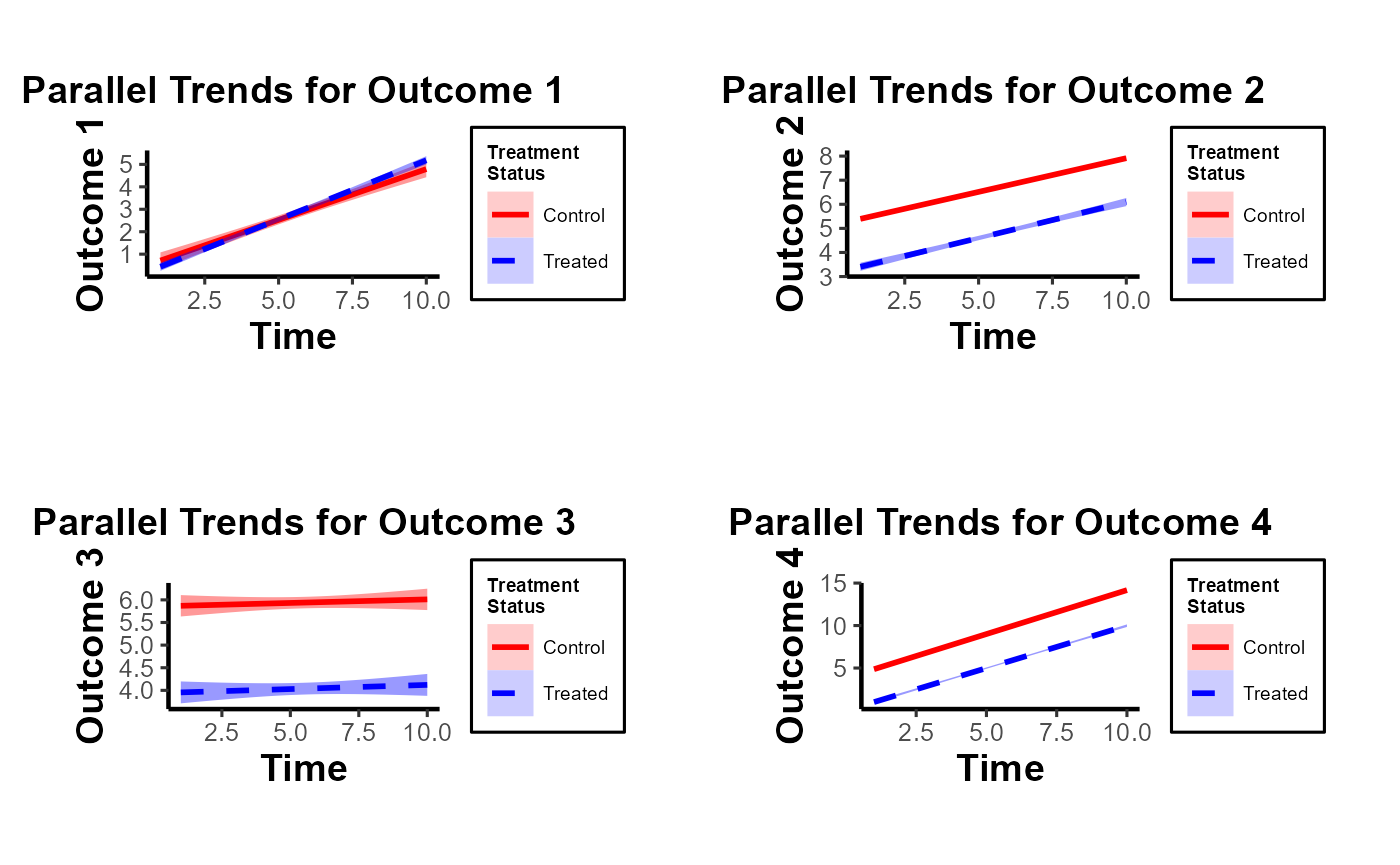
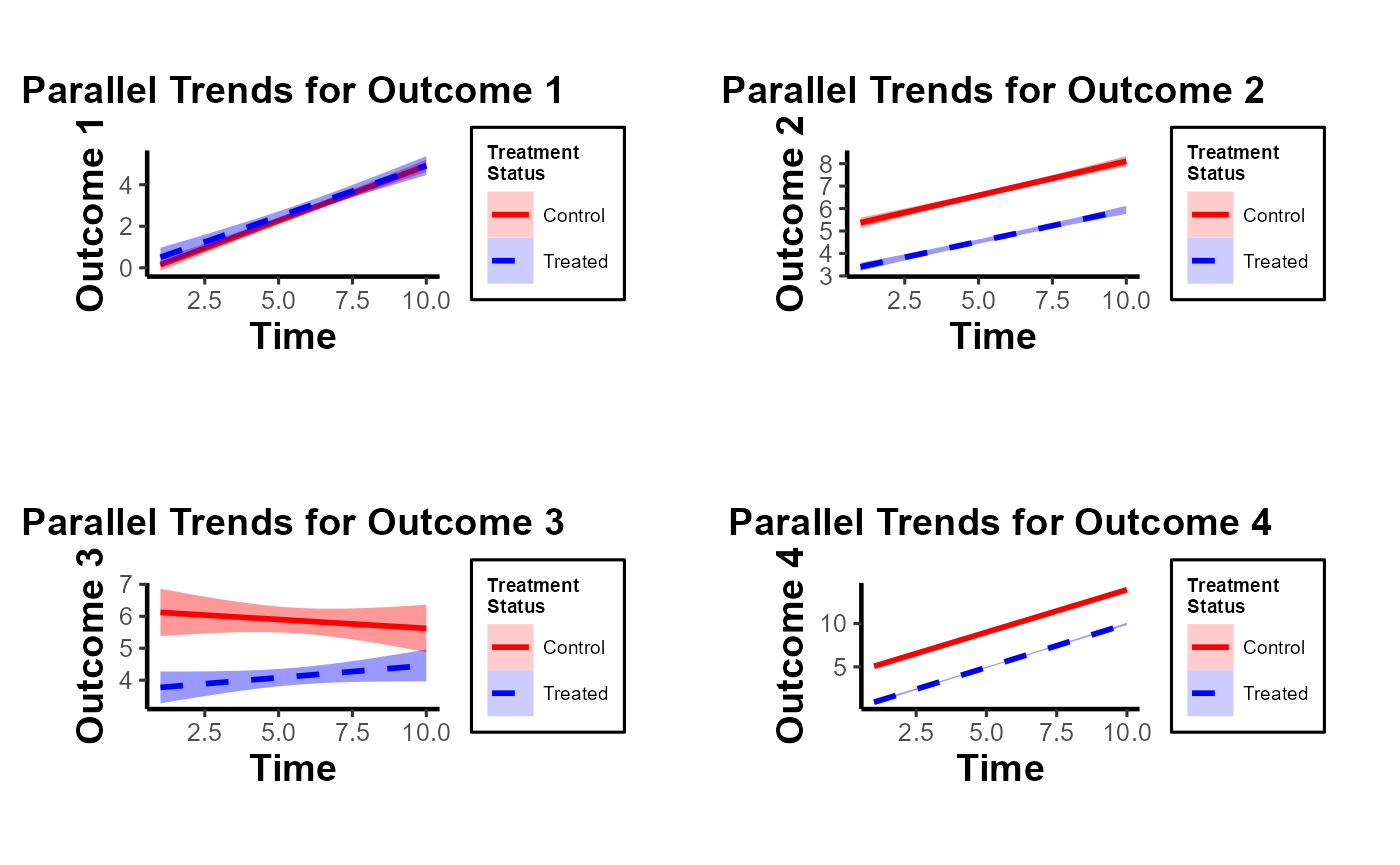
update did vignette

diff --git a/docs/articles/did.html b/docs/articles/did.html
@@ -82,7 +82,7 @@
                         <h4 data-toc-skip class="author">Mike
 Nguyen</h4>
             
-            <h4 data-toc-skip class="date">2023-09-10</h4>
+            <h4 data-toc-skip class="date">2023-09-13</h4>
       
       
       <div class="hidden name"><code>did.Rmd</code></div>
@@ -171,29 +171,29 @@ data:</p>
 <span>  <span class="op">)</span></span>
 <span></span>
 <span><span class="fu"><a href="https://rdrr.io/r/utils/head.html" class="external-link">head</a></span><span class="op">(</span><span class="va">data</span><span class="op">)</span></span>
-<span><span class="co">#&gt;   entity time treatment   outcome1 outcome2 outcome3  outcome4</span></span>
-<span><span class="co">#&gt; 1      1    1   Treated -0.9212452 4.198250 2.598204 0.9750142</span></span>
-<span><span class="co">#&gt; 2      1    2   Treated -1.4691428 2.588677 3.720860 2.2217673</span></span>
-<span><span class="co">#&gt; 3      1    3   Treated -1.6439637 2.412906 3.348479 3.4267399</span></span>
-<span><span class="co">#&gt; 4      1    4   Treated  1.8617544 3.643226 5.664870 2.9824241</span></span>
-<span><span class="co">#&gt; 5      1    5   Treated  2.0055756 4.159484 5.718735 4.6128480</span></span>
-<span><span class="co">#&gt; 6      1    6   Treated  6.3108936 4.874411 2.076136 6.2898369</span></span>
+<span><span class="co">#&gt;   entity time treatment  outcome1 outcome2  outcome3  outcome4</span></span>
+<span><span class="co">#&gt; 1      1    1   Treated 3.9412508 2.496175  2.668553 1.5395708</span></span>
+<span><span class="co">#&gt; 2      1    2   Treated 0.3853295 2.642756  4.197048 0.8052053</span></span>
+<span><span class="co">#&gt; 3      1    3   Treated 2.9096285 5.473351  2.212058 3.7491183</span></span>
+<span><span class="co">#&gt; 4      1    4   Treated 0.8058305 2.841231  5.342310 5.2838790</span></span>
+<span><span class="co">#&gt; 5      1    5   Treated 3.3682230 6.271924  3.419308 5.1122390</span></span>
+<span><span class="co">#&gt; 6      1    6   Treated 3.9741977 4.592943 12.021567 5.4151800</span></span>
 <span></span>
 <span><span class="fu"><a href="https://rdrr.io/r/base/summary.html" class="external-link">summary</a></span><span class="op">(</span><span class="va">data</span><span class="op">)</span></span>
-<span><span class="co">#&gt;      entity            time       treatment            outcome1     </span></span>
-<span><span class="co">#&gt;  Min.   :  1.00   Min.   : 1.0   Length:1000        Min.   :-5.242  </span></span>
-<span><span class="co">#&gt;  1st Qu.: 25.75   1st Qu.: 3.0   Class :character   1st Qu.: 1.030  </span></span>
-<span><span class="co">#&gt;  Median : 50.50   Median : 5.5   Mode  :character   Median : 2.825  </span></span>
-<span><span class="co">#&gt;  Mean   : 50.50   Mean   : 5.5                      Mean   : 2.782  </span></span>
-<span><span class="co">#&gt;  3rd Qu.: 75.25   3rd Qu.: 8.0                      3rd Qu.: 4.655  </span></span>
-<span><span class="co">#&gt;  Max.   :100.00   Max.   :10.0                      Max.   :10.901  </span></span>
-<span><span class="co">#&gt;     outcome2        outcome3          outcome4      </span></span>
-<span><span class="co">#&gt;  Min.   :0.887   Min.   :-10.377   Min.   :-0.6217  </span></span>
-<span><span class="co">#&gt;  1st Qu.:4.599   1st Qu.:  3.014   1st Qu.: 4.8177  </span></span>
-<span><span class="co">#&gt;  Median :5.698   Median :  5.001   Median : 7.5672  </span></span>
-<span><span class="co">#&gt;  Mean   :5.701   Mean   :  4.989   Mean   : 7.5038  </span></span>
-<span><span class="co">#&gt;  3rd Qu.:6.790   3rd Qu.:  6.911   3rd Qu.:10.2151  </span></span>
-<span><span class="co">#&gt;  Max.   :9.958   Max.   : 17.962   Max.   :16.1307</span></span></code></pre></div>
+<span><span class="co">#&gt;      entity            time       treatment            outcome1      </span></span>
+<span><span class="co">#&gt;  Min.   :  1.00   Min.   : 1.0   Length:1000        Min.   :-5.2482  </span></span>
+<span><span class="co">#&gt;  1st Qu.: 25.75   1st Qu.: 3.0   Class :character   1st Qu.: 0.9742  </span></span>
+<span><span class="co">#&gt;  Median : 50.50   Median : 5.5   Mode  :character   Median : 2.5997  </span></span>
+<span><span class="co">#&gt;  Mean   : 50.50   Mean   : 5.5                      Mean   : 2.6221  </span></span>
+<span><span class="co">#&gt;  3rd Qu.: 75.25   3rd Qu.: 8.0                      3rd Qu.: 4.2621  </span></span>
+<span><span class="co">#&gt;  Max.   :100.00   Max.   :10.0                      Max.   :10.4304  </span></span>
+<span><span class="co">#&gt;     outcome2         outcome3         outcome4     </span></span>
+<span><span class="co">#&gt;  Min.   :0.3563   Min.   :-9.905   Min.   :-1.289  </span></span>
+<span><span class="co">#&gt;  1st Qu.:4.4895   1st Qu.: 3.139   1st Qu.: 4.836  </span></span>
+<span><span class="co">#&gt;  Median :5.7107   Median : 5.011   Median : 7.598  </span></span>
+<span><span class="co">#&gt;  Mean   :5.7056   Mean   : 4.995   Mean   : 7.459  </span></span>
+<span><span class="co">#&gt;  3rd Qu.:6.9764   3rd Qu.: 6.921   3rd Qu.:10.061  </span></span>
+<span><span class="co">#&gt;  Max.   :9.9892   Max.   :15.613   Max.   :16.762</span></span></code></pre></div>
 <p>Visualizing Trends with <code>plot_par_trends</code> Invoke the
 <code>plot_par_trends</code> function using the sample data:</p>
 <div class="sourceCode" id="cb4"><pre class="downlit sourceCode r">
@@ -896,9 +896,10 @@ proceed:</p>
 <span></span>
 <span><span class="va">methods</span> <span class="op">&lt;-</span> <span class="fu"><a href="https://rdrr.io/r/base/c.html" class="external-link">c</a></span><span class="op">(</span><span class="st">"mahalanobis"</span>, <span class="st">"ps.match"</span>, <span class="st">"ps.weight"</span><span class="op">)</span></span>
 <span><span class="va">lags</span> <span class="op">&lt;-</span> <span class="fu"><a href="https://rdrr.io/r/base/c.html" class="external-link">c</a></span><span class="op">(</span><span class="fl">1</span>, <span class="fl">4</span><span class="op">)</span></span>
-<span><span class="va">sizes</span> <span class="op">&lt;-</span> <span class="fu"><a href="https://rdrr.io/r/base/c.html" class="external-link">c</a></span><span class="op">(</span><span class="fl">5</span>, <span class="fl">10</span><span class="op">)</span></span>
-<span></span>
-<span><span class="va">res_pm</span> <span class="op">&lt;-</span> <span class="fu"><a href="https://rdrr.io/r/base/list.html" class="external-link">list</a></span><span class="op">(</span><span class="op">)</span></span>
+<span><span class="va">sizes</span> <span class="op">&lt;-</span> <span class="fu"><a href="https://rdrr.io/r/base/c.html" class="external-link">c</a></span><span class="op">(</span><span class="fl">5</span>, <span class="fl">10</span><span class="op">)</span></span></code></pre></div>
+<p>Run sequentially</p>
+<div class="sourceCode" id="cb19"><pre class="downlit sourceCode r">
+<code class="sourceCode R"><span><span class="va">res_pm</span> <span class="op">&lt;-</span> <span class="fu"><a href="https://rdrr.io/r/base/list.html" class="external-link">list</a></span><span class="op">(</span><span class="op">)</span></span>
 <span></span>
 <span><span class="kw">for</span><span class="op">(</span><span class="va">method</span> <span class="kw">in</span> <span class="va">methods</span><span class="op">)</span> <span class="op">{</span></span>
 <span>    <span class="kw">for</span><span class="op">(</span><span class="va">lag</span> <span class="kw">in</span> <span class="va">lags</span><span class="op">)</span> <span class="op">{</span></span>
@@ -920,13 +921,81 @@ proceed:</p>
 <span>        <span class="op">}</span></span>
 <span>    <span class="op">}</span></span>
 <span><span class="op">}</span></span></code></pre></div>
-<div class="sourceCode" id="cb19"><pre class="downlit sourceCode r">
+<p>Run parallel</p>
+<div class="sourceCode" id="cb20"><pre class="downlit sourceCode r">
+<code class="sourceCode R"><span><span class="kw"><a href="https://rdrr.io/r/base/library.html" class="external-link">library</a></span><span class="op">(</span><span class="va"><a href="https://github.com/RevolutionAnalytics/foreach" class="external-link">foreach</a></span><span class="op">)</span></span>
+<span><span class="co">#&gt; </span></span>
+<span><span class="co">#&gt; Attaching package: 'foreach'</span></span>
+<span><span class="co">#&gt; The following objects are masked from 'package:purrr':</span></span>
+<span><span class="co">#&gt; </span></span>
+<span><span class="co">#&gt;     accumulate, when</span></span>
+<span><span class="kw"><a href="https://rdrr.io/r/base/library.html" class="external-link">library</a></span><span class="op">(</span><span class="va"><a href="https://github.com/RevolutionAnalytics/doparallel" class="external-link">doParallel</a></span><span class="op">)</span></span>
+<span><span class="co">#&gt; Loading required package: iterators</span></span>
+<span><span class="co">#&gt; Loading required package: parallel</span></span>
+<span><span class="fu"><a href="https://rdrr.io/pkg/doParallel/man/registerDoParallel.html" class="external-link">registerDoParallel</a></span><span class="op">(</span>cores <span class="op">=</span> <span class="fl">4</span><span class="op">)</span></span>
+<span><span class="co"># Initialize an empty list to store results</span></span>
+<span><span class="va">res_pm</span> <span class="op">&lt;-</span> <span class="fu"><a href="https://rdrr.io/r/base/list.html" class="external-link">list</a></span><span class="op">(</span><span class="op">)</span></span>
+<span></span>
+<span><span class="co"># Replace nested for-loops with foreach</span></span>
+<span><span class="va">results</span> <span class="op">&lt;-</span></span>
+<span>  <span class="fu"><a href="https://rdrr.io/pkg/foreach/man/foreach.html" class="external-link">foreach</a></span><span class="op">(</span></span>
+<span>    method <span class="op">=</span> <span class="va">methods</span>,</span>
+<span>    .combine <span class="op">=</span> <span class="st">'c'</span>,</span>
+<span>    .multicombine <span class="op">=</span> <span class="cn">TRUE</span>,</span>
+<span>    .packages <span class="op">=</span> <span class="fu"><a href="https://rdrr.io/r/base/c.html" class="external-link">c</a></span><span class="op">(</span><span class="st">"PanelMatch"</span>, <span class="st">"causalverse"</span><span class="op">)</span></span>
+<span>  <span class="op">)</span> <span class="op"><a href="https://rdrr.io/pkg/foreach/man/foreach.html" class="external-link">%dopar%</a></span> <span class="op">{</span></span>
+<span>    <span class="va">tmp</span> <span class="op">&lt;-</span> <span class="fu"><a href="https://rdrr.io/r/base/list.html" class="external-link">list</a></span><span class="op">(</span><span class="op">)</span></span>
+<span>    <span class="kw">for</span> <span class="op">(</span><span class="va">lag</span> <span class="kw">in</span> <span class="va">lags</span><span class="op">)</span> <span class="op">{</span></span>
+<span>      <span class="kw">for</span> <span class="op">(</span><span class="va">size</span> <span class="kw">in</span> <span class="va">sizes</span><span class="op">)</span> <span class="op">{</span></span>
+<span>        <span class="va">name</span> <span class="op">&lt;-</span> <span class="fu"><a href="https://rdrr.io/r/base/paste.html" class="external-link">paste0</a></span><span class="op">(</span><span class="va">method</span>, <span class="st">"."</span>, <span class="va">lag</span>, <span class="st">"lag."</span>, <span class="va">size</span>, <span class="st">"m"</span><span class="op">)</span></span>
+<span>        <span class="va">tmp</span><span class="op">[[</span><span class="va">name</span><span class="op">]</span><span class="op">]</span> <span class="op">&lt;-</span> <span class="fu">runPanelMatch</span><span class="op">(</span><span class="va">method</span>, <span class="va">lag</span>, <span class="va">size</span><span class="op">)</span></span>
+<span>      <span class="op">}</span></span>
+<span>    <span class="op">}</span></span>
+<span>    <span class="va">tmp</span></span>
+<span>  <span class="op">}</span></span>
+<span></span>
+<span><span class="co"># Collate results</span></span>
+<span><span class="kw">for</span> <span class="op">(</span><span class="va">name</span> <span class="kw">in</span> <span class="fu"><a href="https://rdrr.io/r/base/names.html" class="external-link">names</a></span><span class="op">(</span><span class="va">results</span><span class="op">)</span><span class="op">)</span> <span class="op">{</span></span>
+<span>  <span class="va">res_pm</span><span class="op">[[</span><span class="va">name</span><span class="op">]</span><span class="op">]</span> <span class="op">&lt;-</span> <span class="va">results</span><span class="op">[[</span><span class="va">name</span><span class="op">]</span><span class="op">]</span></span>
+<span><span class="op">}</span></span>
+<span></span>
+<span><span class="co"># Treatment reversal</span></span>
+<span><span class="co"># Initialize an empty list to store results</span></span>
+<span><span class="va">res_pm_rev</span> <span class="op">&lt;-</span> <span class="fu"><a href="https://rdrr.io/r/base/list.html" class="external-link">list</a></span><span class="op">(</span><span class="op">)</span></span>
+<span></span>
+<span><span class="co"># Replace nested for-loops with foreach</span></span>
+<span><span class="va">results_rev</span> <span class="op">&lt;-</span></span>
+<span>  <span class="fu"><a href="https://rdrr.io/pkg/foreach/man/foreach.html" class="external-link">foreach</a></span><span class="op">(</span></span>
+<span>    method <span class="op">=</span> <span class="va">methods</span>,</span>
+<span>    .combine <span class="op">=</span> <span class="st">'c'</span>,</span>
+<span>    .multicombine <span class="op">=</span> <span class="cn">TRUE</span>,</span>
+<span>    .packages <span class="op">=</span> <span class="fu"><a href="https://rdrr.io/r/base/c.html" class="external-link">c</a></span><span class="op">(</span><span class="st">"PanelMatch"</span>, <span class="st">"causalverse"</span><span class="op">)</span></span>
+<span>  <span class="op">)</span> <span class="op"><a href="https://rdrr.io/pkg/foreach/man/foreach.html" class="external-link">%dopar%</a></span> <span class="op">{</span></span>
+<span>    <span class="va">tmp</span> <span class="op">&lt;-</span> <span class="fu"><a href="https://rdrr.io/r/base/list.html" class="external-link">list</a></span><span class="op">(</span><span class="op">)</span></span>
+<span>    <span class="kw">for</span> <span class="op">(</span><span class="va">lag</span> <span class="kw">in</span> <span class="va">lags</span><span class="op">)</span> <span class="op">{</span></span>
+<span>      <span class="kw">for</span> <span class="op">(</span><span class="va">size</span> <span class="kw">in</span> <span class="va">sizes</span><span class="op">)</span> <span class="op">{</span></span>
+<span>        <span class="va">name</span> <span class="op">&lt;-</span> <span class="fu"><a href="https://rdrr.io/r/base/paste.html" class="external-link">paste0</a></span><span class="op">(</span><span class="va">method</span>, <span class="st">"."</span>, <span class="va">lag</span>, <span class="st">"lag."</span>, <span class="va">size</span>, <span class="st">"m"</span><span class="op">)</span></span>
+<span>        <span class="va">tmp</span><span class="op">[[</span><span class="va">name</span><span class="op">]</span><span class="op">]</span> <span class="op">&lt;-</span></span>
+<span>          <span class="fu">runPanelMatch</span><span class="op">(</span><span class="va">method</span>, <span class="va">lag</span>, <span class="va">size</span>, qoi <span class="op">=</span> <span class="st">"art"</span><span class="op">)</span></span>
+<span>      <span class="op">}</span></span>
+<span>    <span class="op">}</span></span>
+<span>    <span class="va">tmp</span></span>
+<span>  <span class="op">}</span></span>
+<span></span>
+<span><span class="co"># Collate results</span></span>
+<span><span class="kw">for</span> <span class="op">(</span><span class="va">name</span> <span class="kw">in</span> <span class="fu"><a href="https://rdrr.io/r/base/names.html" class="external-link">names</a></span><span class="op">(</span><span class="va">results_rev</span><span class="op">)</span><span class="op">)</span> <span class="op">{</span></span>
+<span>  <span class="va">res_pm_rev</span><span class="op">[[</span><span class="va">name</span><span class="op">]</span><span class="op">]</span> <span class="op">&lt;-</span> <span class="va">results_rev</span><span class="op">[[</span><span class="va">name</span><span class="op">]</span><span class="op">]</span></span>
+<span><span class="op">}</span></span>
+<span></span>
+<span></span>
+<span><span class="fu"><a href="https://rdrr.io/pkg/doParallel/man/registerDoParallel.html" class="external-link">stopImplicitCluster</a></span><span class="op">(</span><span class="op">)</span></span></code></pre></div>
+<div class="sourceCode" id="cb21"><pre class="downlit sourceCode r">
 <code class="sourceCode R"><span><span class="co"># Now, you can access res_pm using res_pm[["mahalanobis.1lag.5m"]] etc.</span></span>
 <span></span>
 <span><span class="kw"><a href="https://rdrr.io/r/base/library.html" class="external-link">library</a></span><span class="op">(</span><span class="va">gridExtra</span><span class="op">)</span></span>
 <span></span>
 <span><span class="co"># Updated plotting function</span></span>
-<span><span class="va">create_balance_plot</span> <span class="op">&lt;-</span> <span class="kw">function</span><span class="op">(</span><span class="va">method</span>, <span class="va">lag</span>, <span class="va">sizes</span>, <span class="va">res_pm</span>, <span class="va">dem</span><span class="op">)</span> <span class="op">{</span></span>
+<span><span class="va">create_balance_plot</span> <span class="op">&lt;-</span> <span class="kw">function</span><span class="op">(</span><span class="va">method</span>, <span class="va">lag</span>, <span class="va">sizes</span>, <span class="va">res_pm</span>, <span class="va">data</span><span class="op">)</span> <span class="op">{</span></span>
 <span>    <span class="va">matched_set_lists</span> <span class="op">&lt;-</span> <span class="fu"><a href="https://rdrr.io/r/base/lapply.html" class="external-link">lapply</a></span><span class="op">(</span><span class="va">sizes</span>, <span class="kw">function</span><span class="op">(</span><span class="va">size</span><span class="op">)</span> <span class="op">{</span></span>
 <span>        <span class="va">res_pm</span><span class="op">[[</span><span class="fu"><a href="https://rdrr.io/r/base/paste.html" class="external-link">paste0</a></span><span class="op">(</span><span class="va">method</span>, <span class="st">"."</span>, <span class="va">lag</span>, <span class="st">"lag."</span>, <span class="va">size</span>, <span class="st">"m"</span><span class="op">)</span><span class="op">]</span><span class="op">]</span><span class="op">$</span><span class="va">att</span></span>
 <span>    <span class="op">}</span><span class="op">)</span></span>
@@ -941,7 +1010,7 @@ proceed:</p>
 <span>        x.axis.label <span class="op">=</span> <span class="st">""</span>,</span>
 <span>        y.axis.label <span class="op">=</span> <span class="st">""</span>,</span>
 <span>        main <span class="op">=</span> <span class="st">""</span>,</span>
-<span>        data <span class="op">=</span> <span class="va">dem</span>,</span>
+<span>        data <span class="op">=</span> <span class="va">data</span>,</span>
 <span>        dot.size <span class="op">=</span> <span class="fl">5</span>,</span>
 <span>        <span class="co"># show.legend = F,</span></span>
 <span>        them_use <span class="op">=</span> <span class="fu">causalverse</span><span class="fu">::</span><span class="fu"><a href="../reference/ama_theme.html">ama_theme</a></span><span class="op">(</span></span>
@@ -984,7 +1053,7 @@ proceed:</p>
 <span><span class="va">major.axes.fontsize</span> <span class="op">=</span> <span class="fl">20</span></span>
 <span><span class="va">minor.axes.fontsize</span> <span class="op">=</span> <span class="fl">16</span></span></code></pre></div>
 <p>To export</p>
-<div class="sourceCode" id="cb20"><pre class="downlit sourceCode r">
+<div class="sourceCode" id="cb22"><pre class="downlit sourceCode r">
 <code class="sourceCode R"><span><span class="fu"><a href="https://rdrr.io/r/grDevices/png.html" class="external-link">png</a></span><span class="op">(</span></span>
 <span>  <span class="fu"><a href="https://rdrr.io/r/base/file.path.html" class="external-link">file.path</a></span><span class="op">(</span><span class="fu"><a href="https://rdrr.io/r/base/getwd.html" class="external-link">getwd</a></span><span class="op">(</span><span class="op">)</span>, <span class="st">"export"</span>, <span class="st">"balance_scatter.png"</span><span class="op">)</span>,</span>
 <span>  width <span class="op">=</span> <span class="fl">1200</span>,</span>
@@ -1042,7 +1111,7 @@ proceed:</p>
 <span>  gp <span class="op">=</span> <span class="fu"><a href="https://rdrr.io/r/grid/gpar.html" class="external-link">gpar</a></span><span class="op">(</span>fontsize <span class="op">=</span> <span class="va">major.axes.fontsize</span><span class="op">)</span></span>
 <span><span class="op">)</span></span>
 <span><span class="fu"><a href="https://rdrr.io/r/grDevices/dev.html" class="external-link">dev.off</a></span><span class="op">(</span><span class="op">)</span></span></code></pre></div>
-<div class="sourceCode" id="cb21"><pre class="downlit sourceCode r">
+<div class="sourceCode" id="cb23"><pre class="downlit sourceCode r">
 <code class="sourceCode R"><span><span class="kw"><a href="https://rdrr.io/r/base/library.html" class="external-link">library</a></span><span class="op">(</span><span class="va"><a href="https://yihui.org/knitr/" class="external-link">knitr</a></span><span class="op">)</span></span>
 <span><span class="fu"><a href="https://rdrr.io/pkg/knitr/man/include_graphics.html" class="external-link">include_graphics</a></span><span class="op">(</span><span class="fu"><a href="https://rdrr.io/r/base/file.path.html" class="external-link">file.path</a></span><span class="op">(</span><span class="fu"><a href="https://rdrr.io/r/base/getwd.html" class="external-link">getwd</a></span><span class="op">(</span><span class="op">)</span>, <span class="st">"export"</span>, <span class="st">"balance_scatter.png"</span><span class="op">)</span><span class="op">)</span></span></code></pre></div>
 <p>I do not include it in this vignette due to display issues, but the
@@ -1056,7 +1125,7 @@ code can be easily replicated.</p>
 object. Therefore, it is necessary to construct our own visualization.
 However, one can utilize the output dataset from
 <code>get_covariate_balance</code> for this purpose.</p>
-<div class="sourceCode" id="cb22"><pre class="downlit sourceCode r">
+<div class="sourceCode" id="cb24"><pre class="downlit sourceCode r">
 <code class="sourceCode R"><span><span class="va">PM.results.ps.weight</span> <span class="op">&lt;-</span></span>
 <span>    <span class="fu"><a href="https://rdrr.io/pkg/PanelMatch/man/PanelMatch.html" class="external-link">PanelMatch</a></span><span class="op">(</span></span>
 <span>        lag                       <span class="op">=</span> <span class="fl">4</span>,</span>
@@ -1082,11 +1151,11 @@ However, one can utilize the output dataset from
 <span><span class="op">)</span></span>
 <span></span>
 <span><span class="fu"><a href="../reference/plot_covariate_balance_pretrend.html">plot_covariate_balance_pretrend</a></span><span class="op">(</span><span class="va">df</span><span class="op">)</span></span></code></pre></div>
-<p><img src="did_files/figure-html/unnamed-chunk-20-1.png" width="700"></p>
+<p><img src="did_files/figure-html/unnamed-chunk-22-1.png" width="700"></p>
 <p>We must also examine multiple matching and refining methods to ensure
 that we have robust evidence for covariate balance over the
 pre-treatment time period.</p>
-<div class="sourceCode" id="cb23"><pre class="downlit sourceCode r">
+<div class="sourceCode" id="cb25"><pre class="downlit sourceCode r">
 <code class="sourceCode R"><span><span class="co"># Step 1: Define configurations</span></span>
 <span><span class="va">configurations</span> <span class="op">&lt;-</span> <span class="fu"><a href="https://rdrr.io/r/base/list.html" class="external-link">list</a></span><span class="op">(</span></span>
 <span>    <span class="fu"><a href="https://rdrr.io/r/base/list.html" class="external-link">list</a></span><span class="op">(</span>refinement.method <span class="op">=</span> <span class="st">"none"</span>, qoi <span class="op">=</span> <span class="st">"att"</span><span class="op">)</span>,</span>
@@ -1156,7 +1225,7 @@ pre-treatment time period.</p>
 <span><span class="co"># Equivalently</span></span>
 <span><span class="co"># grid.arrange(grobs = c(plots[paste0("att.", c("none", "mahalanobis", "ps.match", "ps.weight"))], plots[paste0("art.", c("none", "mahalanobis", "ps.match", "ps.weight"))]),  ncol = 4)</span></span></code></pre></div>
 <p>For a fancier plot</p>
-<div class="sourceCode" id="cb24"><pre class="downlit sourceCode r">
+<div class="sourceCode" id="cb26"><pre class="downlit sourceCode r">
 <code class="sourceCode R"><span><span class="kw"><a href="https://rdrr.io/r/base/library.html" class="external-link">library</a></span><span class="op">(</span><span class="va">gridExtra</span><span class="op">)</span></span>
 <span><span class="kw"><a href="https://rdrr.io/r/base/library.html" class="external-link">library</a></span><span class="op">(</span><span class="va">grid</span><span class="op">)</span></span>
 <span></span>
@@ -1237,8 +1306,9 @@ pre-treatment time period.</p>
 <div class="section level3">
 <h3 id="estimation">Estimation<a class="anchor" aria-label="anchor" href="#estimation"></a>
 </h3>
-<div class="sourceCode" id="cb25"><pre class="downlit sourceCode r">
-<code class="sourceCode R"><span><span class="co"># Step 1: Apply PanelEstimate function</span></span>
+<div class="sourceCode" id="cb27"><pre class="downlit sourceCode r">
+<code class="sourceCode R"><span><span class="co"># sequential</span></span>
+<span><span class="co"># Step 1: Apply PanelEstimate function</span></span>
 <span></span>
 <span><span class="co"># Initialize an empty list to store results</span></span>
 <span><span class="va">res_est</span> <span class="op">&lt;-</span> <span class="fu"><a href="https://rdrr.io/r/base/vector.html" class="external-link">vector</a></span><span class="op">(</span><span class="st">"list"</span>, <span class="fu"><a href="https://rdrr.io/r/base/length.html" class="external-link">length</a></span><span class="op">(</span><span class="va">res_pm</span><span class="op">)</span><span class="op">)</span></span>
@@ -1271,10 +1341,11 @@ pre-treatment time period.</p>
 <span>    <span class="fu"><a href="https://rdrr.io/r/base/names.html" class="external-link">names</a></span><span class="op">(</span><span class="va">res_est_plot</span><span class="op">)</span><span class="op">[</span><span class="va">i</span><span class="op">]</span> <span class="op">&lt;-</span> <span class="fu"><a href="https://rdrr.io/r/base/names.html" class="external-link">names</a></span><span class="op">(</span><span class="va">res_est</span><span class="op">)</span><span class="op">[</span><span class="va">i</span><span class="op">]</span></span>
 <span><span class="op">}</span></span>
 <span></span>
-<span><span class="va">res_est_plot</span><span class="op">$</span><span class="va">mahalanobis.1lag.5m</span></span></code></pre></div>
-<p><img src="did_files/figure-html/unnamed-chunk-23-1.png" width="700"></p>
-<div class="sourceCode" id="cb26"><pre class="downlit sourceCode r">
-<code class="sourceCode R"><span><span class="co"># Step 1: Apply PanelEstimate function for res_pm_rev</span></span>
+<span><span class="co"># check results</span></span>
+<span><span class="co"># res_est_plot$mahalanobis.1lag.5m</span></span>
+<span></span>
+<span></span>
+<span><span class="co"># Step 1: Apply PanelEstimate function for res_pm_rev</span></span>
 <span></span>
 <span><span class="co"># Initialize an empty list to store results</span></span>
 <span><span class="va">res_est_rev</span> <span class="op">&lt;-</span> <span class="fu"><a href="https://rdrr.io/r/base/vector.html" class="external-link">vector</a></span><span class="op">(</span><span class="st">"list"</span>, <span class="fu"><a href="https://rdrr.io/r/base/length.html" class="external-link">length</a></span><span class="op">(</span><span class="va">res_pm_rev</span><span class="op">)</span><span class="op">)</span></span>
@@ -1306,7 +1377,81 @@ pre-treatment time period.</p>
 <span>  <span class="co"># Transfer the name of the current element to the res_est_plot_rev list</span></span>
 <span>  <span class="fu"><a href="https://rdrr.io/r/base/names.html" class="external-link">names</a></span><span class="op">(</span><span class="va">res_est_plot_rev</span><span class="op">)</span><span class="op">[</span><span class="va">i</span><span class="op">]</span> <span class="op">&lt;-</span> <span class="fu"><a href="https://rdrr.io/r/base/names.html" class="external-link">names</a></span><span class="op">(</span><span class="va">res_est_rev</span><span class="op">)</span><span class="op">[</span><span class="va">i</span><span class="op">]</span></span>
 <span><span class="op">}</span></span></code></pre></div>
-<div class="sourceCode" id="cb27"><pre class="downlit sourceCode r">
+<div class="sourceCode" id="cb28"><pre class="downlit sourceCode r">
+<code class="sourceCode R"><span><span class="co"># parallel</span></span>
+<span><span class="kw"><a href="https://rdrr.io/r/base/library.html" class="external-link">library</a></span><span class="op">(</span><span class="va"><a href="https://github.com/RevolutionAnalytics/doparallel" class="external-link">doParallel</a></span><span class="op">)</span></span>
+<span><span class="kw"><a href="https://rdrr.io/r/base/library.html" class="external-link">library</a></span><span class="op">(</span><span class="va"><a href="https://github.com/RevolutionAnalytics/foreach" class="external-link">foreach</a></span><span class="op">)</span></span>
+<span></span>
+<span><span class="co"># Detect the number of cores to use for parallel processing</span></span>
+<span><span class="va">num_cores</span> <span class="op">&lt;-</span> <span class="fl">4</span></span>
+<span></span>
+<span><span class="co"># Register the parallel backend</span></span>
+<span><span class="va">cl</span> <span class="op">&lt;-</span> <span class="fu"><a href="https://rdrr.io/r/parallel/makeCluster.html" class="external-link">makeCluster</a></span><span class="op">(</span><span class="va">num_cores</span><span class="op">)</span></span>
+<span><span class="fu"><a href="https://rdrr.io/pkg/doParallel/man/registerDoParallel.html" class="external-link">registerDoParallel</a></span><span class="op">(</span><span class="va">cl</span><span class="op">)</span></span>
+<span></span>
+<span><span class="co"># Step 1: Apply PanelEstimate function in parallel</span></span>
+<span><span class="va">res_est</span> <span class="op">&lt;-</span></span>
+<span>    <span class="fu"><a href="https://rdrr.io/pkg/foreach/man/foreach.html" class="external-link">foreach</a></span><span class="op">(</span>i <span class="op">=</span> <span class="fl">1</span><span class="op">:</span><span class="fu"><a href="https://rdrr.io/r/base/length.html" class="external-link">length</a></span><span class="op">(</span><span class="va">res_pm</span><span class="op">)</span>, .packages <span class="op">=</span> <span class="st">"PanelMatch"</span><span class="op">)</span> <span class="op"><a href="https://rdrr.io/pkg/foreach/man/foreach.html" class="external-link">%dopar%</a></span> <span class="op">{</span></span>
+<span>        <span class="fu"><a href="https://rdrr.io/pkg/PanelMatch/man/PanelEstimate.html" class="external-link">PanelEstimate</a></span><span class="op">(</span></span>
+<span>            <span class="va">res_pm</span><span class="op">[[</span><span class="va">i</span><span class="op">]</span><span class="op">]</span>,</span>
+<span>            data <span class="op">=</span> <span class="va">dem</span>,</span>
+<span>            se.method <span class="op">=</span> <span class="st">"bootstrap"</span>,</span>
+<span>            number.iterations <span class="op">=</span> <span class="fl">1000</span>,</span>
+<span>            confidence.level <span class="op">=</span> <span class="fl">.95</span></span>
+<span>        <span class="op">)</span></span>
+<span>    <span class="op">}</span></span>
+<span></span>
+<span><span class="co"># Transfer names from res_pm to res_est</span></span>
+<span><span class="fu"><a href="https://rdrr.io/r/base/names.html" class="external-link">names</a></span><span class="op">(</span><span class="va">res_est</span><span class="op">)</span> <span class="op">&lt;-</span> <span class="fu"><a href="https://rdrr.io/r/base/names.html" class="external-link">names</a></span><span class="op">(</span><span class="va">res_pm</span><span class="op">)</span></span>
+<span></span>
+<span><span class="co"># Step 2: Apply plot_PanelEstimate function in parallel</span></span>
+<span><span class="va">res_est_plot</span> <span class="op">&lt;-</span></span>
+<span>    <span class="fu"><a href="https://rdrr.io/pkg/foreach/man/foreach.html" class="external-link">foreach</a></span><span class="op">(</span></span>
+<span>        i <span class="op">=</span> <span class="fl">1</span><span class="op">:</span><span class="fu"><a href="https://rdrr.io/r/base/length.html" class="external-link">length</a></span><span class="op">(</span><span class="va">res_est</span><span class="op">)</span>,</span>
+<span>        .packages <span class="op">=</span> <span class="fu"><a href="https://rdrr.io/r/base/c.html" class="external-link">c</a></span><span class="op">(</span><span class="st">"PanelMatch"</span>, <span class="st">"causalverse"</span>, <span class="st">"ggplot2"</span><span class="op">)</span></span>
+<span>    <span class="op">)</span> <span class="op"><a href="https://rdrr.io/pkg/foreach/man/foreach.html" class="external-link">%dopar%</a></span> <span class="op">{</span></span>
+<span>        <span class="fu"><a href="../reference/plot_PanelEstimate.html">plot_PanelEstimate</a></span><span class="op">(</span><span class="va">res_est</span><span class="op">[[</span><span class="va">i</span><span class="op">]</span><span class="op">]</span>,</span>
+<span>                           main <span class="op">=</span> <span class="st">""</span>,</span>
+<span>                           theme_use <span class="op">=</span> <span class="fu">causalverse</span><span class="fu">::</span><span class="fu"><a href="../reference/ama_theme.html">ama_theme</a></span><span class="op">(</span>base_size <span class="op">=</span> <span class="fl">10</span><span class="op">)</span><span class="op">)</span></span>
+<span>    <span class="op">}</span></span>
+<span></span>
+<span><span class="co"># Transfer names from res_est to res_est_plot</span></span>
+<span><span class="fu"><a href="https://rdrr.io/r/base/names.html" class="external-link">names</a></span><span class="op">(</span><span class="va">res_est_plot</span><span class="op">)</span> <span class="op">&lt;-</span> <span class="fu"><a href="https://rdrr.io/r/base/names.html" class="external-link">names</a></span><span class="op">(</span><span class="va">res_est</span><span class="op">)</span></span>
+<span></span>
+<span></span>
+<span></span>
+<span><span class="co"># Step 1: Apply PanelEstimate function for res_pm_rev in parallel</span></span>
+<span><span class="va">res_est_rev</span> <span class="op">&lt;-</span></span>
+<span>    <span class="fu"><a href="https://rdrr.io/pkg/foreach/man/foreach.html" class="external-link">foreach</a></span><span class="op">(</span>i <span class="op">=</span> <span class="fl">1</span><span class="op">:</span><span class="fu"><a href="https://rdrr.io/r/base/length.html" class="external-link">length</a></span><span class="op">(</span><span class="va">res_pm_rev</span><span class="op">)</span>, .packages <span class="op">=</span> <span class="st">"PanelMatch"</span><span class="op">)</span> <span class="op"><a href="https://rdrr.io/pkg/foreach/man/foreach.html" class="external-link">%dopar%</a></span> <span class="op">{</span></span>
+<span>        <span class="fu"><a href="https://rdrr.io/pkg/PanelMatch/man/PanelEstimate.html" class="external-link">PanelEstimate</a></span><span class="op">(</span></span>
+<span>            <span class="va">res_pm_rev</span><span class="op">[[</span><span class="va">i</span><span class="op">]</span><span class="op">]</span>,</span>
+<span>            data <span class="op">=</span> <span class="va">dem</span>,</span>
+<span>            se.method <span class="op">=</span> <span class="st">"bootstrap"</span>,</span>
+<span>            number.iterations <span class="op">=</span> <span class="fl">1000</span>,</span>
+<span>            confidence.level <span class="op">=</span> <span class="fl">.95</span></span>
+<span>        <span class="op">)</span></span>
+<span>    <span class="op">}</span></span>
+<span></span>
+<span><span class="co"># Transfer names from res_pm_rev to res_est_rev</span></span>
+<span><span class="fu"><a href="https://rdrr.io/r/base/names.html" class="external-link">names</a></span><span class="op">(</span><span class="va">res_est_rev</span><span class="op">)</span> <span class="op">&lt;-</span> <span class="fu"><a href="https://rdrr.io/r/base/names.html" class="external-link">names</a></span><span class="op">(</span><span class="va">res_pm_rev</span><span class="op">)</span></span>
+<span></span>
+<span><span class="co"># Step 2: Apply plot_PanelEstimate function for res_est_rev in parallel</span></span>
+<span><span class="va">res_est_plot_rev</span> <span class="op">&lt;-</span></span>
+<span>    <span class="fu"><a href="https://rdrr.io/pkg/foreach/man/foreach.html" class="external-link">foreach</a></span><span class="op">(</span></span>
+<span>        i <span class="op">=</span> <span class="fl">1</span><span class="op">:</span><span class="fu"><a href="https://rdrr.io/r/base/length.html" class="external-link">length</a></span><span class="op">(</span><span class="va">res_est_rev</span><span class="op">)</span>,</span>
+<span>        .packages <span class="op">=</span> <span class="fu"><a href="https://rdrr.io/r/base/c.html" class="external-link">c</a></span><span class="op">(</span><span class="st">"PanelMatch"</span>, <span class="st">"causalverse"</span>, <span class="st">"ggplot2"</span><span class="op">)</span></span>
+<span>    <span class="op">)</span> <span class="op"><a href="https://rdrr.io/pkg/foreach/man/foreach.html" class="external-link">%dopar%</a></span> <span class="op">{</span></span>
+<span>        <span class="fu"><a href="../reference/plot_PanelEstimate.html">plot_PanelEstimate</a></span><span class="op">(</span><span class="va">res_est_rev</span><span class="op">[[</span><span class="va">i</span><span class="op">]</span><span class="op">]</span>,</span>
+<span>                           main <span class="op">=</span> <span class="st">""</span>,</span>
+<span>                           theme_use <span class="op">=</span> <span class="fu">causalverse</span><span class="fu">::</span><span class="fu"><a href="../reference/ama_theme.html">ama_theme</a></span><span class="op">(</span>base_size <span class="op">=</span> <span class="fl">10</span><span class="op">)</span><span class="op">)</span></span>
+<span>    <span class="op">}</span></span>
+<span></span>
+<span><span class="co"># Transfer names from res_est_rev to res_est_plot_rev</span></span>
+<span><span class="fu"><a href="https://rdrr.io/r/base/names.html" class="external-link">names</a></span><span class="op">(</span><span class="va">res_est_plot_rev</span><span class="op">)</span> <span class="op">&lt;-</span> <span class="fu"><a href="https://rdrr.io/r/base/names.html" class="external-link">names</a></span><span class="op">(</span><span class="va">res_est_rev</span><span class="op">)</span></span>
+<span></span>
+<span><span class="co"># Stop the cluster</span></span>
+<span><span class="fu"><a href="https://rdrr.io/r/parallel/makeCluster.html" class="external-link">stopCluster</a></span><span class="op">(</span><span class="va">cl</span><span class="op">)</span></span></code></pre></div>
+<div class="sourceCode" id="cb29"><pre class="downlit sourceCode r">
 <code class="sourceCode R"><span><span class="kw"><a href="https://rdrr.io/r/base/library.html" class="external-link">library</a></span><span class="op">(</span><span class="va">gridExtra</span><span class="op">)</span></span>
 <span><span class="kw"><a href="https://rdrr.io/r/base/library.html" class="external-link">library</a></span><span class="op">(</span><span class="va">grid</span><span class="op">)</span></span>
 <span></span>

diff --git a/docs/articles/introduction.html b/docs/articles/introduction.html
@@ -82,7 +82,7 @@
                         <h4 data-toc-skip class="author">Mike
 Nguyen</h4>
             
-            <h4 data-toc-skip class="date">2023-09-10</h4>
+            <h4 data-toc-skip class="date">2023-09-13</h4>
       
       
       <div class="hidden name"><code>introduction.Rmd</code></div>
